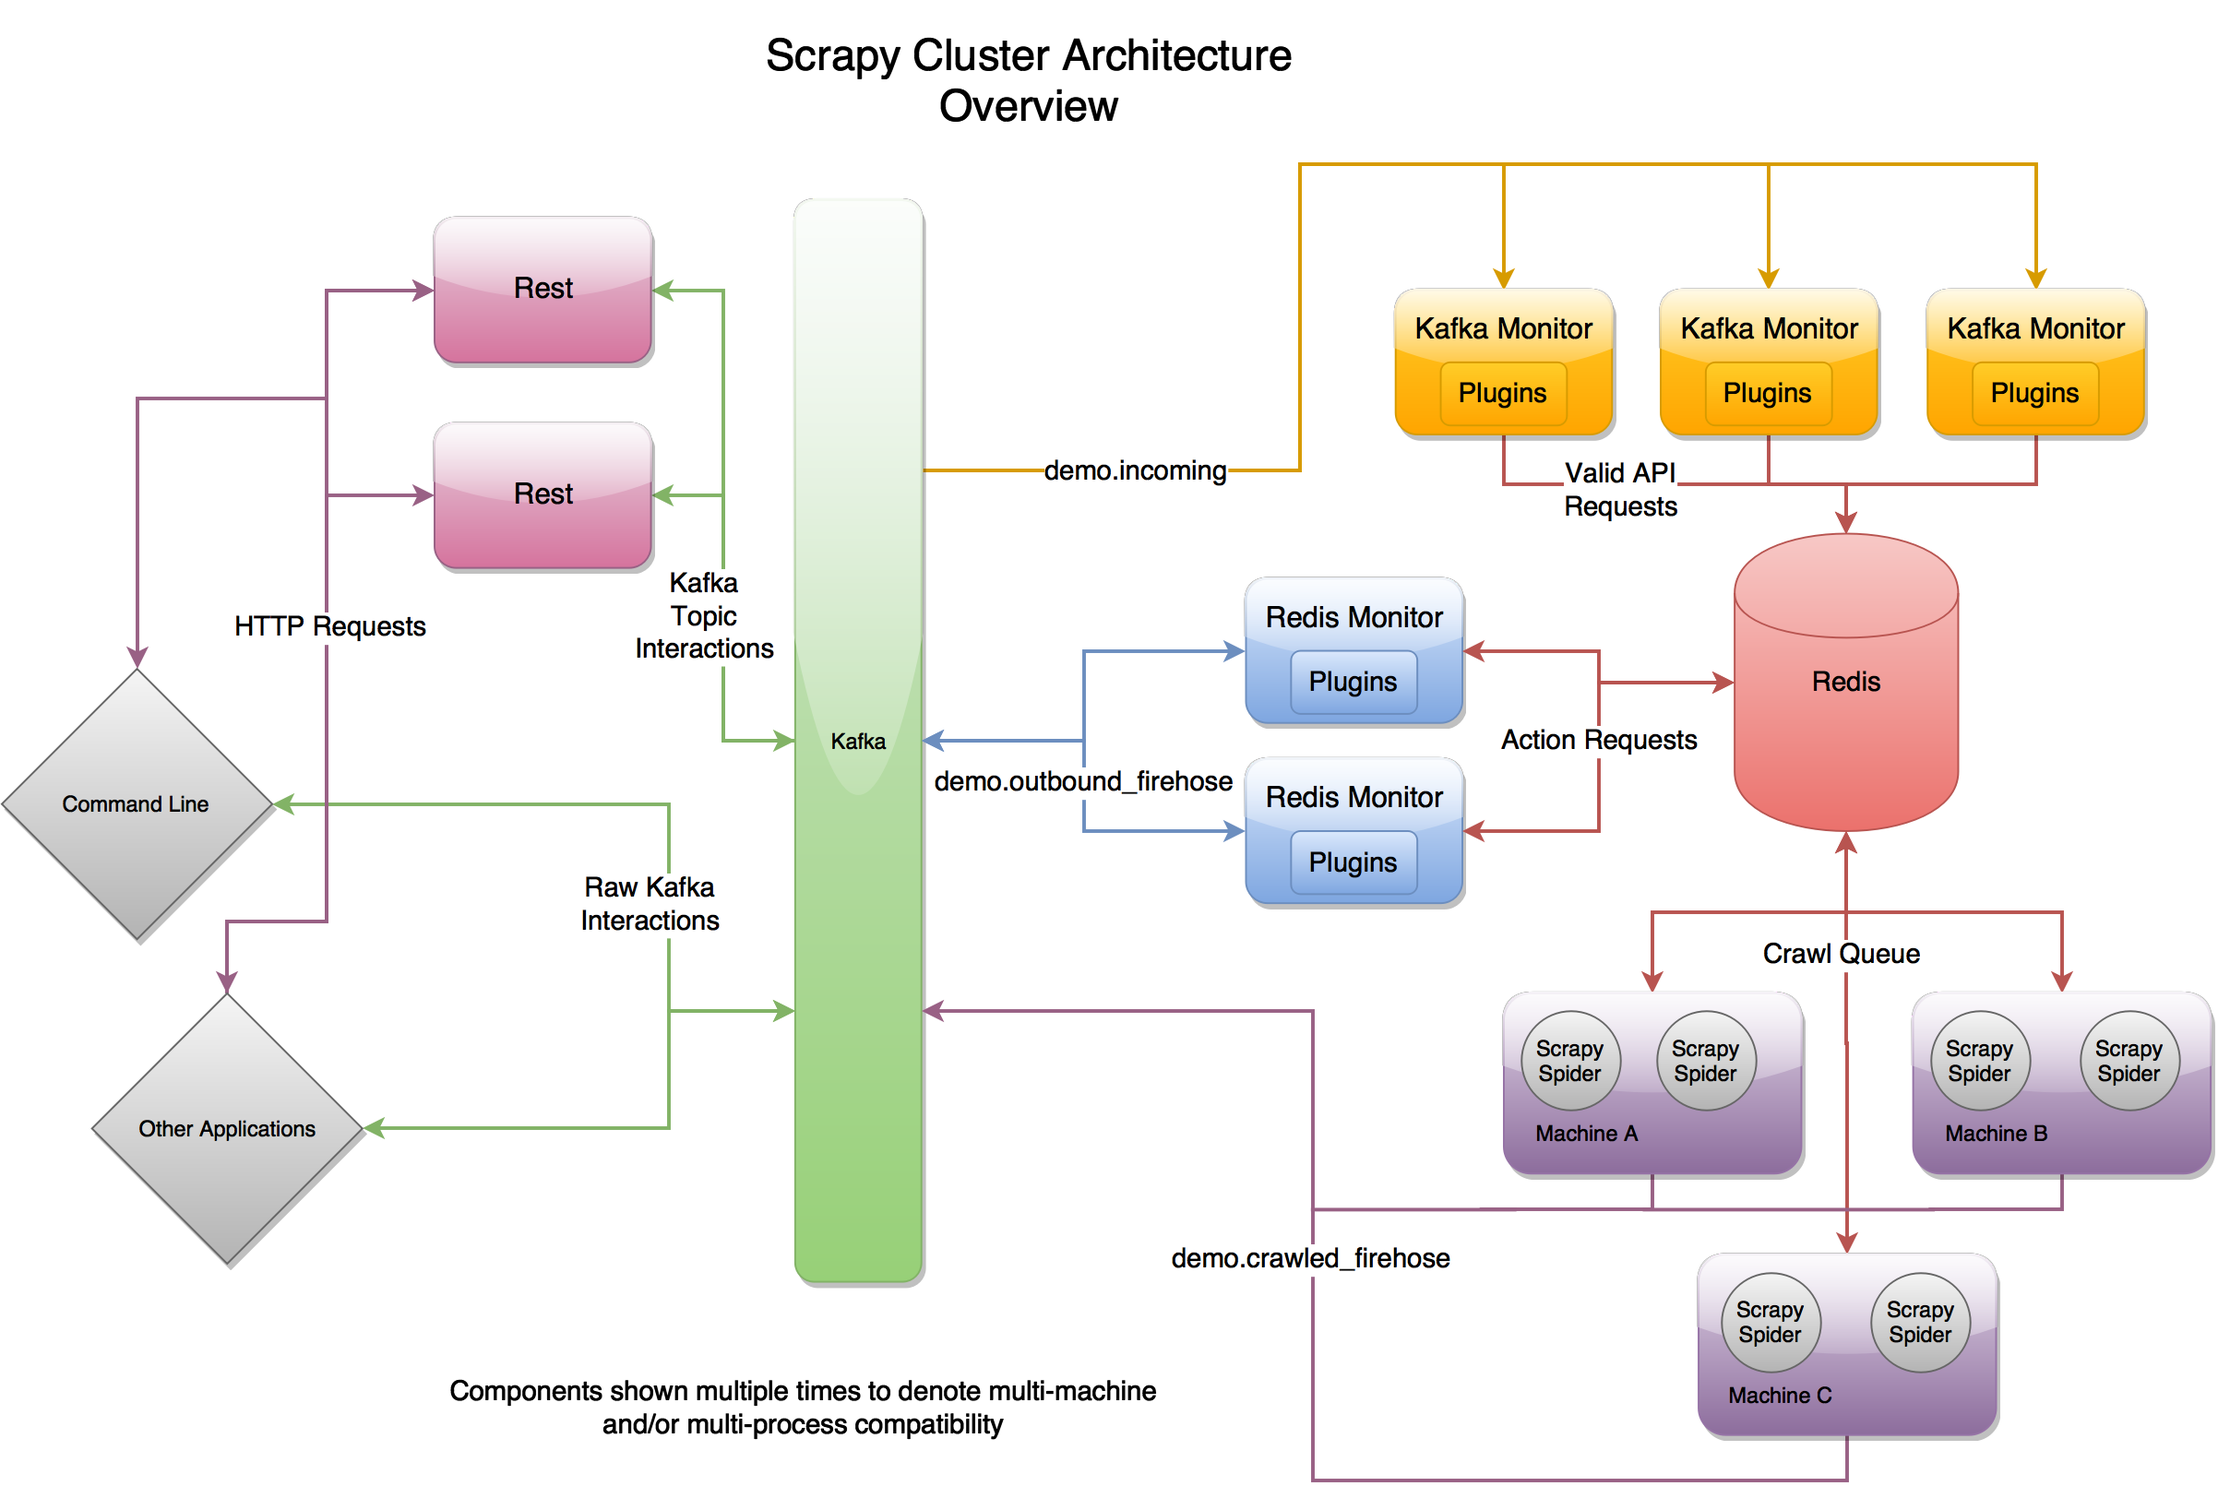
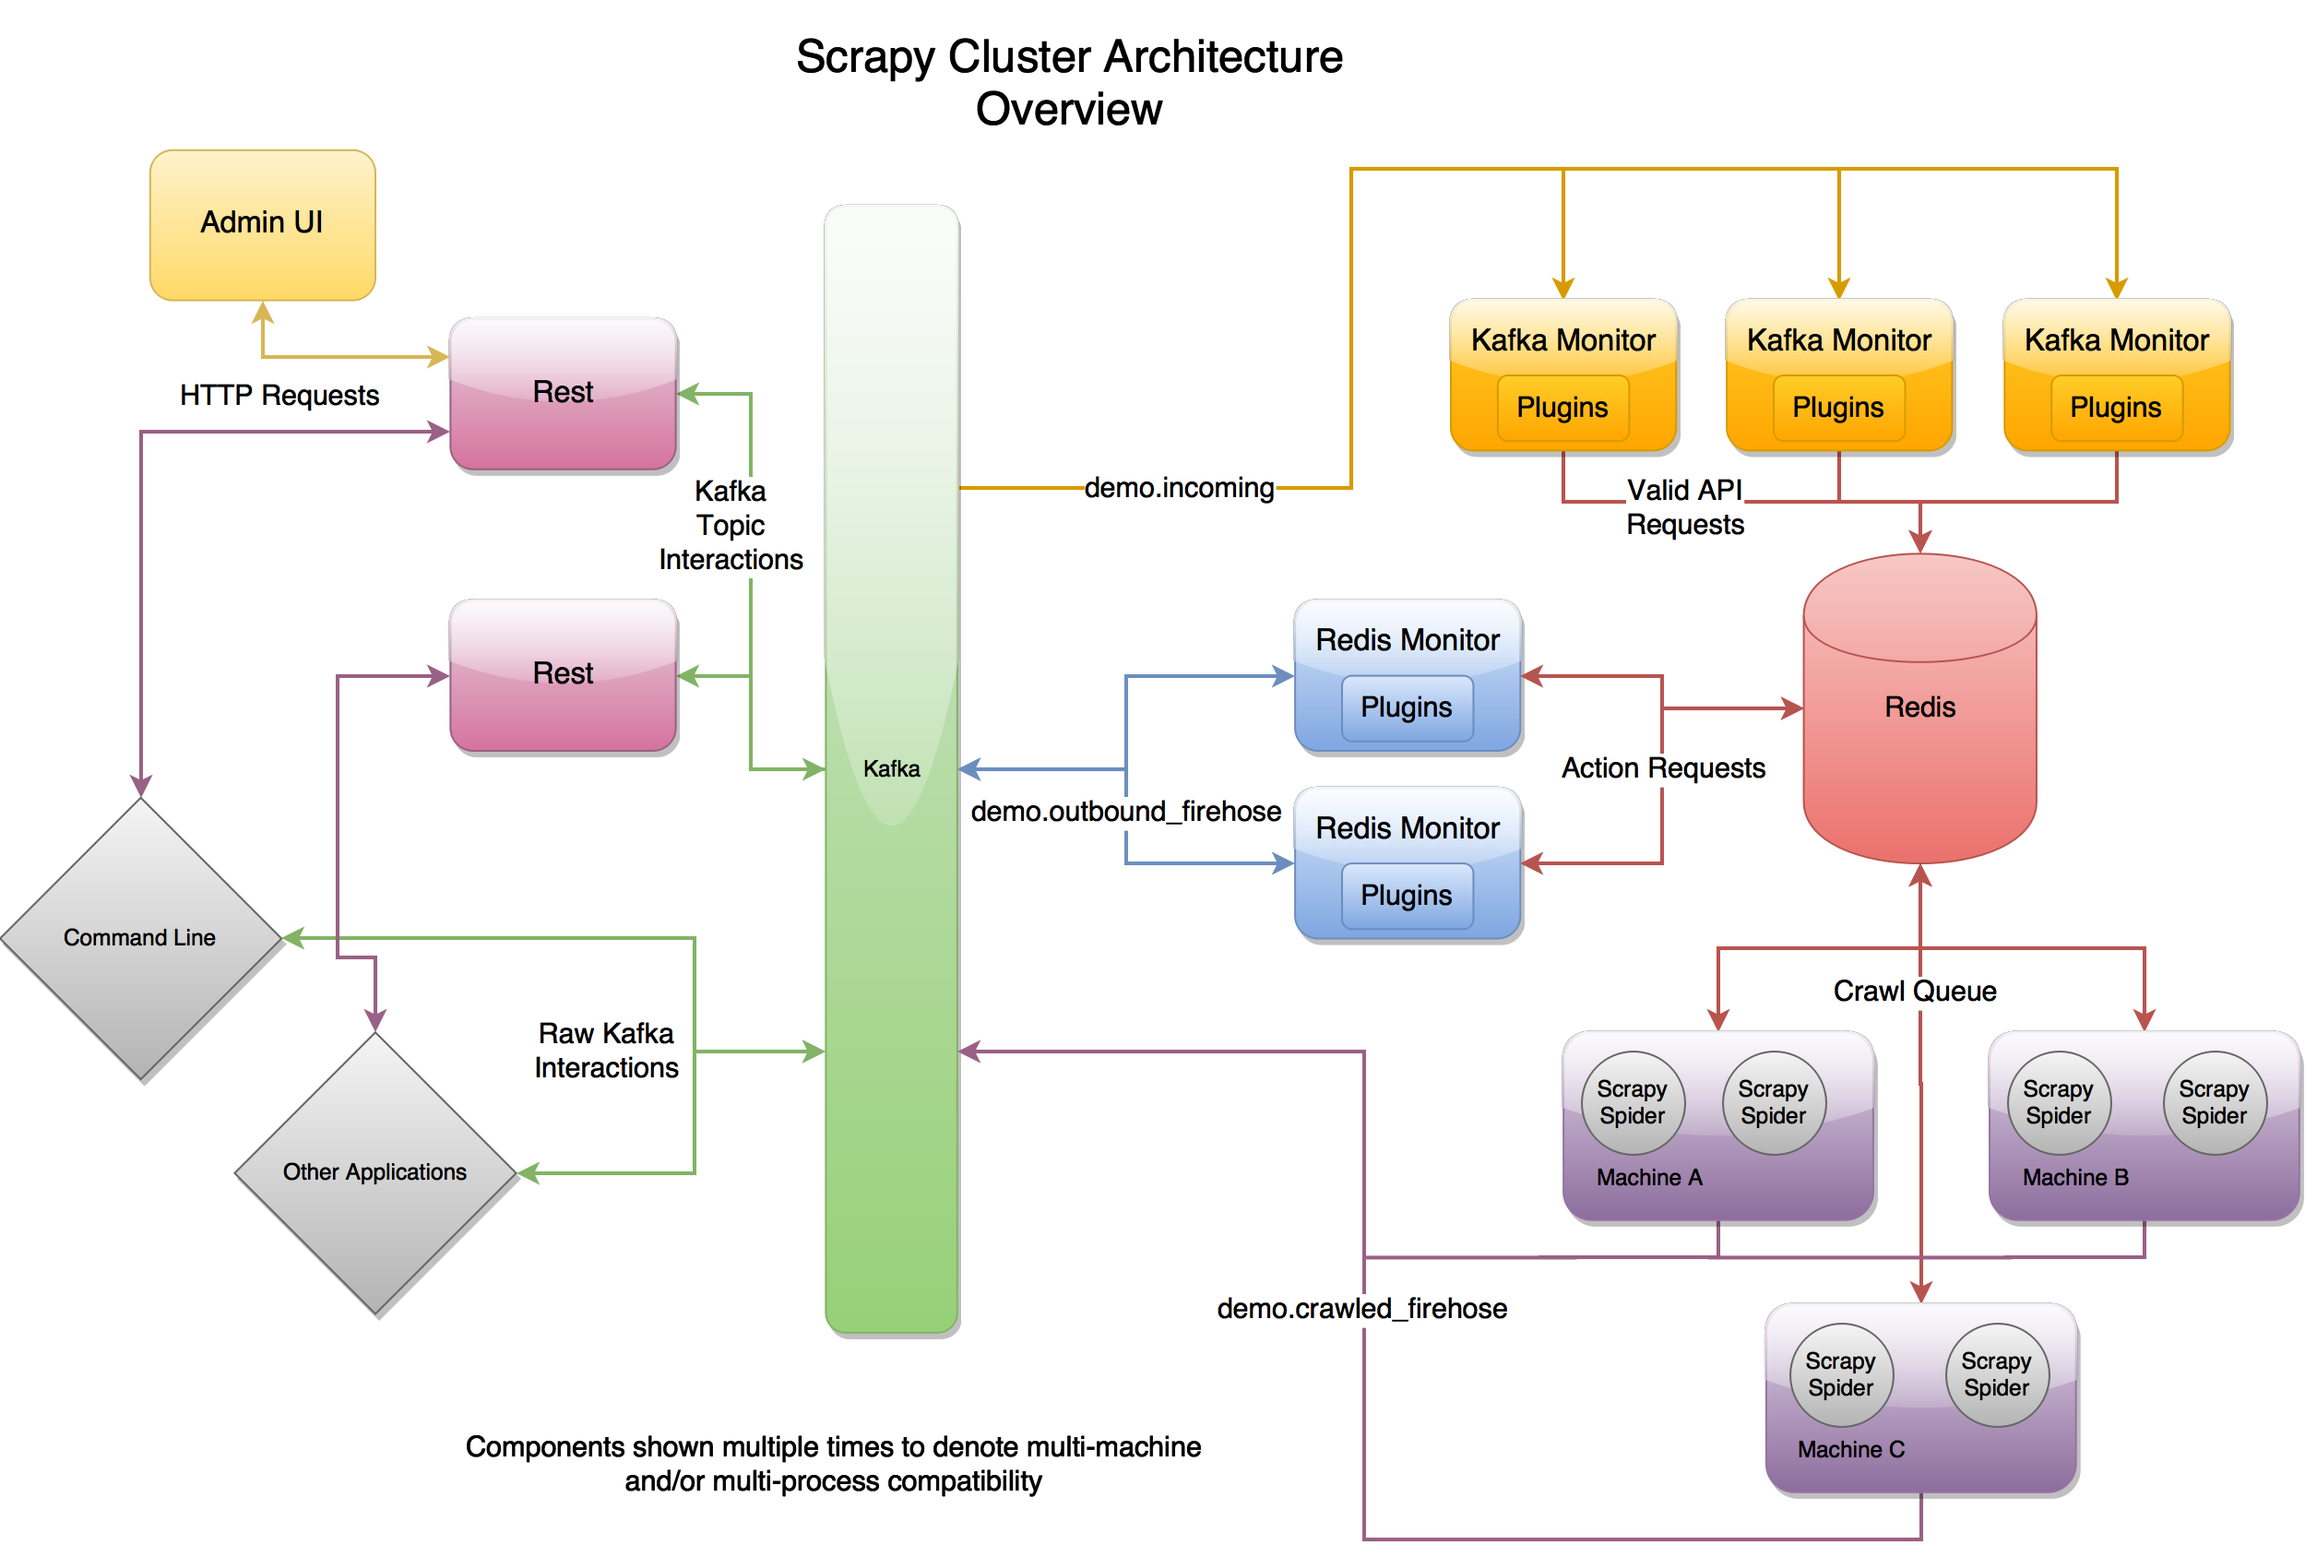
Updates documentation surrounding admin ui

diff --git a/docs/topics/introduction/quickstart.rst b/docs/topics/introduction/quickstart.rst
@@ -89,7 +89,7 @@ Bring the machine up.
 ::
 
     (sc) vagrant@scdev:/vagrant$ ./run_offline_tests.sh
-    # There should be 5 core pieces, each of them saying all tests passed like so
+    # There should be 6 core pieces, each of them saying all tests passed like so
     ----------------------------------------------------------------------
     Ran 20 tests in 0.034s
     ...
@@ -165,6 +165,12 @@ At time of writing, there is no Docker container to interface and run all of the
 
     $ docker exec -it scrapycluster_rest_1 bash
 
+  UI
+
+  ::
+
+    $ docker exec -it scrapycluster_ui_1 bash
+
 5) Run the unit and integration test for that component. Note that your output may be slightly different but your tests should pass consistently.
 
 ::
@@ -212,7 +218,7 @@ Lets assume our project is now in ``~/scrapy-cluster``
 ::
 
     $ ./run_offline_tests.sh
-    # There should be 5 core pieces, each of them saying all tests passed like so
+    # There should be 6 core pieces, each of them saying all tests passed like so
     ----------------------------------------------------------------------
     Ran 20 tests in 0.034s
     ...
@@ -353,6 +359,34 @@ Add the following fields to override the defaults
 
     OK
 
+13) You can also set up the Admin UI to connect to the rest service
+
+::
+
+    $ cd ../ui/
+    $ vi localsettings.py
+
+Add the following fields to override the defaults
+
+::
+
+    # Here, 'scdev' is the host with the rest service
+    REST_HOST = 'scdev'
+
+14) Run the online integration tests to see if the ui service works.
+
+::
+
+    $ python tests/online.py -v
+    ...
+    ok
+
+    ----------------------------------------------------------------------
+    Ran 1 test in 11.309s
+
+    OK
+
+
 Your First Crawl
 ----------------
 
@@ -408,6 +442,12 @@ The following commands outline what you would run in a traditional environment. 
     ::
 
         python rest_service.py
+
+- The Admin UI (1):
+
+    ::
+
+        python ui_service.py
 
 -  The dump utility located in Kafka Monitor to see your crawl results
 

diff --git a/docs/topics/admin-ui/settings.rst b/docs/topics/admin-ui/settings.rst
@@ -18,17 +18,30 @@ Default: ``5343``
 
 The default port for the Rest service to listen on. The abbreviation ``SC`` equals ``5343`` in hexidecimal.
 
-**SLEEP_TIME**
+**DEBUG**
 
-Default: ``0.1``
+Default: ``False``
 
-The number of seconds the main threads will sleep between checking for items.
+Turns on Flask debugging while running the application.
 
-**WAIT_FOR_RESPONSE_TIME**
+**STAT_REQ_FREQ**
 
-Default: ``5``
+Default: ``910``
 
-The amount of time the Rest service will wait for a response from Kafka before converting the request into a ``poll``.
+The amount of time to wait in between statistics requests to build graphs or gather other metrics
+
+**STAT_START_DELAY**
+
+Default: ``10``
+
+The amount of time to wait before first executing stats requests to the rest endpoint
+
+
+**DAEMON_THREAD_JOIN_TIMEOUT**
+
+Default: ``10``
+
+The amount of time the UI will wait to join daemon threads it spawns to conduct background tasks
 
 Rest
 ----
@@ -43,7 +56,7 @@ Logging
 
 **LOGGER_NAME**
 
-Default: ``'rest-service'``
+Default: ``'ui-service'``
 
 The logger name.
 
@@ -55,7 +68,7 @@ The directory to write logs into. Only applicable when ``LOG_STDOUT`` is set to 
 
 **LOG_FILE**
 
-Default: ``'rest_service.log'``
+Default: ``'ui_service.log'``
 
 The file to write the logs into. When this file rolls it will have ``.1`` or ``.2`` appended to the file name. Only applicable when ``LOG_STDOUT`` is set to ``False``.
 

diff --git a/docs/topics/introduction/overview.rst b/docs/topics/introduction/overview.rst
@@ -54,4 +54,4 @@ Architecture
 
 At the highest level, Scrapy Cluster operates on a single input Kafka topic, and two separate output Kafka topics. All incoming requests to the cluster go through the ``demo.incoming`` kafka topic, and depending on what the request is will generate output from either the ``demo.outbound_firehose`` topic for action requests or ``demo.crawled_firehose`` topics for html crawl requests.
 
-Each of the three core pieces are extendable in order add or enhance their functionality. Both the Kafka Monitor and Redis Monitor use 'Plugins' in order to enhance their abilities, whereas Scrapy uses 'Middlewares', 'Pipelines', and 'Spiders' to allow you to customize your crawling. Together these three components and the Rest service allow for scaled and distributed crawling across many machines.
+Each of the three core pieces are extendable in order add or enhance their functionality. Both the Kafka Monitor and Redis Monitor use 'Plugins' in order to enhance their abilities, whereas Scrapy uses 'Middlewares', 'Pipelines', and 'Spiders' to allow you to customize your crawling. The Admin UI and the Rest service allow for easier interaction and controlling of Scrapy Cluster. Together these five components allow for scaled and distributed crawling across many machines.

diff --git a/docs/topics/admin-ui/design.rst b/docs/topics/admin-ui/design.rst
@@ -1,7 +1,11 @@
 Design
 ======
 
-The Admin UI is designed to act as a simply interface from which a user can manage Scrapy Cluster. It is designed to make simply tasks such as stats requests and submit crawl job requests easier and quicker to perform.
+The Admin UI is designed to act as a simple interface from which a user can manage Scrapy Cluster. It is designed to make tasks such as stats requests and submit crawl job requests easier and quicker to perform.
+
+.. figure:: ../img/admin_ui.png
+   :alt: Admin UI
+   :align:   center
 
 
 The Admin UI service is one of the newer components to Scrapy Cluster, and provides an intuitive interface for a user to interact with Scrapy Cluster. In time additional functionality will be added to the Admin UI service to make it a one stop shop for managing Scrapy Cluster deployments.

diff --git a/docs/topics/admin-ui/quickstart.rst b/docs/topics/admin-ui/quickstart.rst
@@ -23,7 +23,7 @@ Typical usage of the Admin UI service is done in conjunction with both the Rest 
 
 .. warning:: This guide assumes you have both a running Rest service, Kafka Monitor and Redis Monitor already. Please see the Kafka Monitor :doc:`../kafka-monitor/quickstart`  or the Redis Monitor :doc:`../redis-monitor/quickstart` for more information.
 
-Open a terminals.
+Open a terminal.
 
 **Terminal 1:**
 

diff --git a/docs/index.rst b/docs/index.rst
@@ -17,6 +17,7 @@ This documentation provides everything you need to know about the `Scrapy <http:
     topics/crawler/index
     topics/redis-monitor/index
     topics/rest/index
+    topics/admin-ui/index
     topics/utils/index
     topics/advanced/index
     topics/faq
